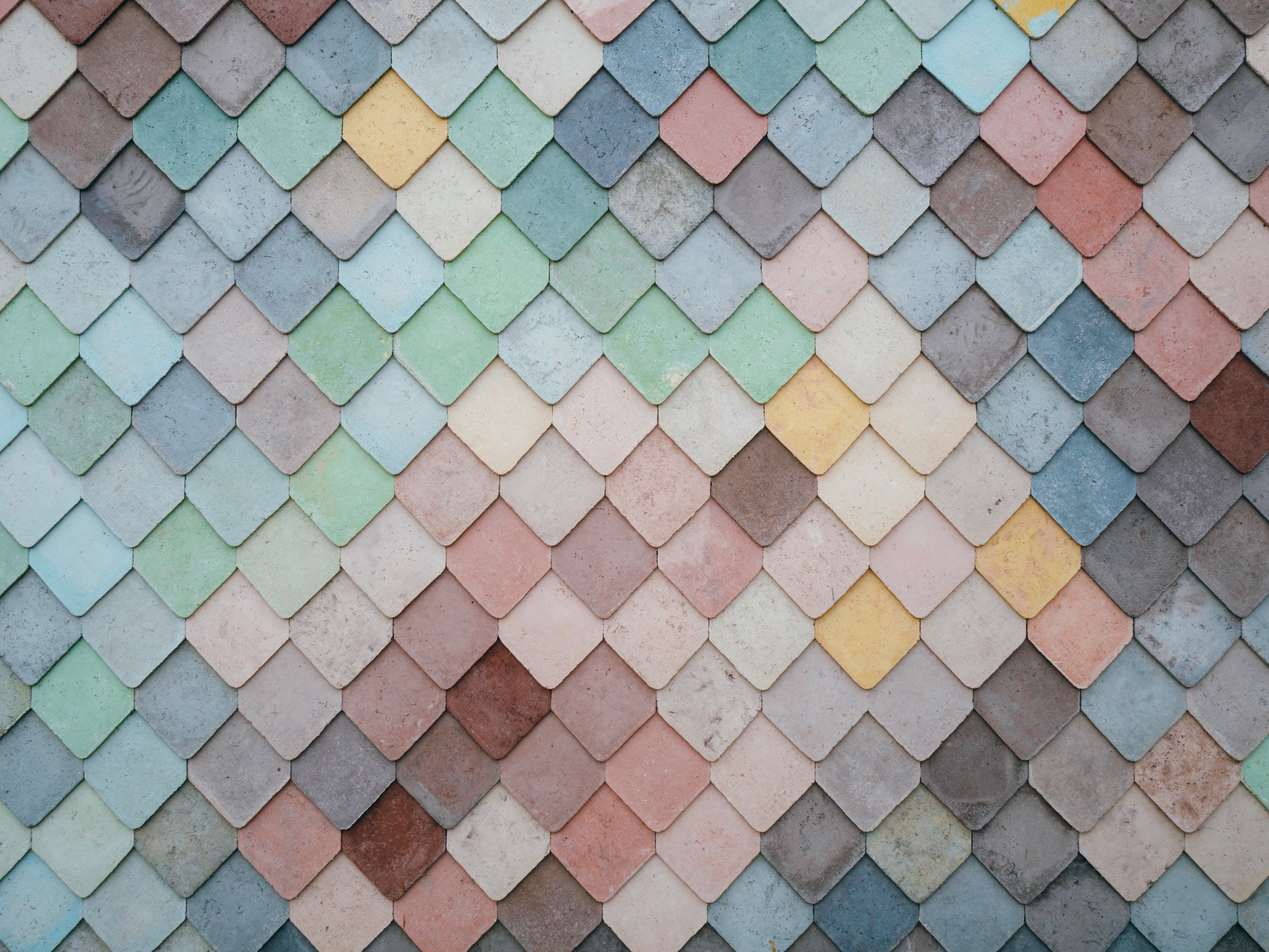
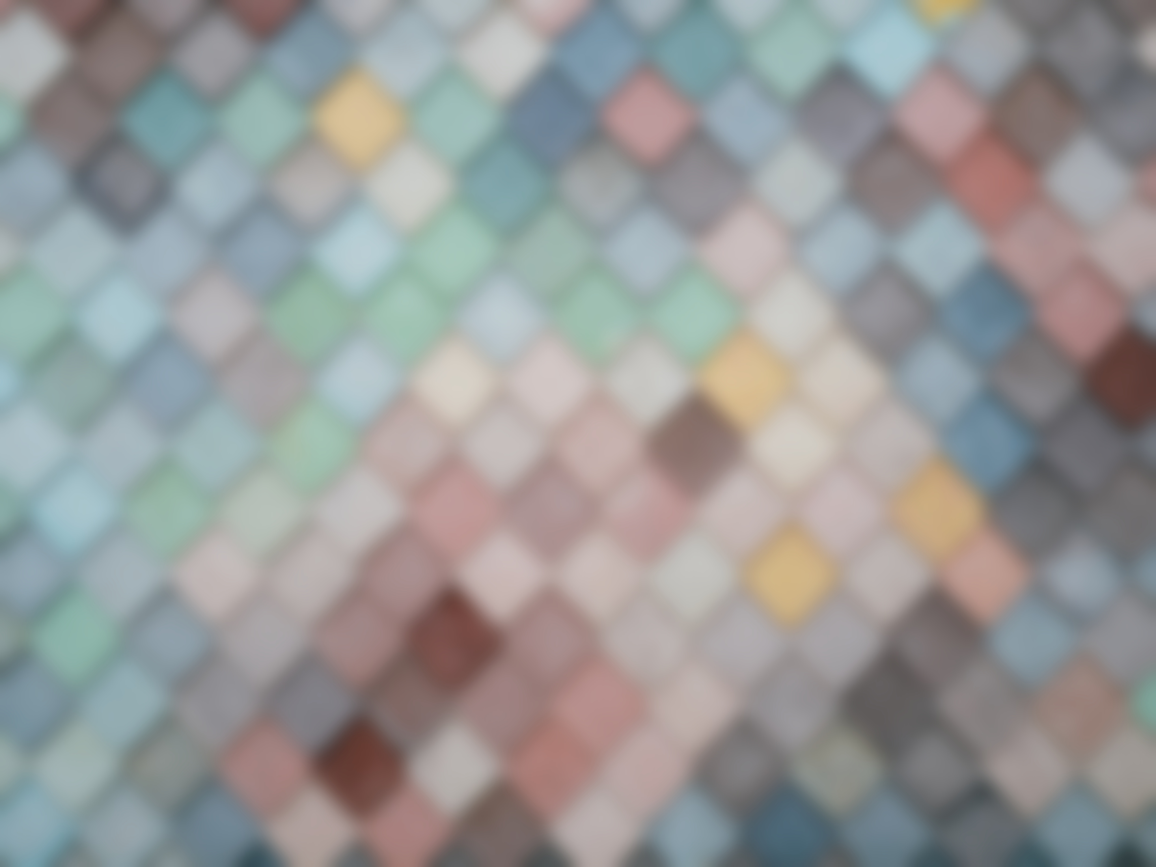
animations

diff --git a/src/styles.scss b/src/styles.scss
@@ -526,6 +526,8 @@ a:hover { color: #1b5e20;text-decoration:none }
   background-image: url("./assets/background.jpg");
   background-repeat: no-repeat;
   background-size: cover;
+  backdrop-filter: blur(2px);
+
 }
 
 .overlay-hashad{
@@ -538,7 +540,142 @@ a:hover { color: #1b5e20;text-decoration:none }
   background-color: rgba(0,0,0,0.5); /*dim the background*/
 }
 
+.wobble-ver-left {
+	-webkit-animation: wobble-ver-left 0.8s both;
+	        animation: wobble-ver-left 0.8s both;
+}
 
+.swing-in-top-fwd {
+	-webkit-animation: swing-in-top-fwd 0.5s cubic-bezier(0.175, 0.885, 0.320, 1.275) both;
+	        animation: swing-in-top-fwd 0.5s cubic-bezier(0.175, 0.885, 0.320, 1.275) both;
+}
+
+/* ----------------------------------------------
+ * Generated by Animista on 2019-12-17 18:44:2
+ * Licensed under FreeBSD License.
+ * See http://animista.net/license for more info. 
+ * w: http://animista.net, t: @cssanimista
+ * ---------------------------------------------- */
+
+/**
+ * ----------------------------------------
+ * animation swing-in-top-fwd
+ * ----------------------------------------
+ */
+ @-webkit-keyframes swing-in-top-fwd {
+  0% {
+    -webkit-transform: rotateX(-100deg);
+            transform: rotateX(-100deg);
+    -webkit-transform-origin: top;
+            transform-origin: top;
+    opacity: 0;
+  }
+  100% {
+    -webkit-transform: rotateX(0deg);
+            transform: rotateX(0deg);
+    -webkit-transform-origin: top;
+            transform-origin: top;
+    opacity: 1;
+  }
+}
+@keyframes swing-in-top-fwd {
+  0% {
+    -webkit-transform: rotateX(-100deg);
+            transform: rotateX(-100deg);
+    -webkit-transform-origin: top;
+            transform-origin: top;
+    opacity: 0;
+  }
+  100% {
+    -webkit-transform: rotateX(0deg);
+            transform: rotateX(0deg);
+    -webkit-transform-origin: top;
+            transform-origin: top;
+    opacity: 1;
+  }
+}
+
+
+/* ----------------------------------------------
+ * Generated by Animista on 2019-12-17 18:32:51
+ * Licensed under FreeBSD License.
+ * See http://animista.net/license for more info. 
+ * w: http://animista.net, t: @cssanimista
+ * ---------------------------------------------- */
+
+/**
+ * ----------------------------------------
+ * animation wobble-ver-left
+ * ----------------------------------------
+ */
+ @-webkit-keyframes wobble-ver-left {
+  0%,
+  100% {
+    -webkit-transform: translateY(0) rotate(0);
+            transform: translateY(0) rotate(0);
+    -webkit-transform-origin: 50% 50%;
+            transform-origin: 50% 50%;
+  }
+  15% {
+    -webkit-transform: translateY(-30px) rotate(-6deg);
+            transform: translateY(-30px) rotate(-6deg);
+  }
+  30% {
+    -webkit-transform: translateY(15px) rotate(6deg);
+            transform: translateY(15px) rotate(6deg);
+  }
+  45% {
+    -webkit-transform: translateY(-15px) rotate(-3.6deg);
+            transform: translateY(-15px) rotate(-3.6deg);
+  }
+  60% {
+    -webkit-transform: translateY(9px) rotate(2.4deg);
+            transform: translateY(9px) rotate(2.4deg);
+  }
+  75% {
+    -webkit-transform: translateY(-6px) rotate(-1.2deg);
+            transform: translateY(-6px) rotate(-1.2deg);
+  }
+}
+@keyframes wobble-ver-left {
+  0%,
+  100% {
+    -webkit-transform: translateY(0) rotate(0);
+            transform: translateY(0) rotate(0);
+    -webkit-transform-origin: 50% 50%;
+            transform-origin: 50% 50%;
+  }
+  15% {
+    -webkit-transform: translateY(-30px) rotate(-6deg);
+            transform: translateY(-30px) rotate(-6deg);
+  }
+  30% {
+    -webkit-transform: translateY(15px) rotate(6deg);
+            transform: translateY(15px) rotate(6deg);
+  }
+  45% {
+    -webkit-transform: translateY(-15px) rotate(-3.6deg);
+            transform: translateY(-15px) rotate(-3.6deg);
+  }
+  60% {
+    -webkit-transform: translateY(9px) rotate(2.4deg);
+            transform: translateY(9px) rotate(2.4deg);
+  }
+  75% {
+    -webkit-transform: translateY(-6px) rotate(-1.2deg);
+            transform: translateY(-6px) rotate(-1.2deg);
+  }
+}
+
+
+.slide-top {
+	-webkit-animation: slide-top 0.5s cubic-bezier(0.250, 0.460, 0.450, 0.940) both;
+	        animation: slide-top 0.5s cubic-bezier(0.250, 0.460, 0.450, 0.940) both;
+}
+.text-pop-up-top {
+	-webkit-animation: text-pop-up-top 0.5s cubic-bezier(0.250, 0.460, 0.450, 0.940) both;
+	        animation: text-pop-up-top 0.5s cubic-bezier(0.250, 0.460, 0.450, 0.940) both;
+}
 
 //@import 'tim.css';
 //@import 'quill.css';

diff --git a/src/app/features/home/components/welcome/welcome.component.html b/src/app/features/home/components/welcome/welcome.component.html
@@ -1,19 +1,25 @@
 <div class="container" fxLayout fxLayout.xs="column" fxLayoutAlign="center" fxLayoutGap="10px" fxLayoutGap.xs="0">
 	<div class="item item-2" fxFlex>
-<ngb-carousel *ngIf="settings.slider_images?.length > 0" [showNavigationArrows]="showNavigationArrows" [showNavigationIndicators]="showNavigationIndicators">
+<!-- <ngb-carousel *ngIf="settings.slider_images?.length > 0" [showNavigationArrows]="showNavigationArrows" [showNavigationIndicators]="showNavigationIndicators">
  <div *ngFor="let image of settings.slider_images">
   <ng-template  ngbSlide *ngIf="image != ''"  >
     <div class="picsum-img-wrapper" > 
-      <img  class="img-fluid "   [src]="image" alt="Random slide">
+      <img  class="img-fluid slide-top "   [src]="image" alt="Random slide">
     </div>
     <div class="carousel-caption">
       <!-- <h3 style="color:white">{{settings.home_page_title}}</h3>
       <p style="color:white">{{settings.home_page_description}}</p> -->
       <!-- <button mat-raised-button  type="button" color="accent">Post AD</button> -->
-    </div>
+    <!--</div>
   </ng-template>
 </div>
-</ngb-carousel>
+</ngb-carousel> -->
+<div class="jumbotron jumbotron-fluid">
+  <div class="container">
+    <h1 class="display-4">Fluid jumbotron</h1>
+    <p class="lead">This is a modified jumbotron that occupies the entire horizontal space of its parent.</p>
+  </div>
+</div>
 </div>
 </div>
 <mat-toolbar>Steps to Post Ad</mat-toolbar>
@@ -26,7 +32,7 @@
       text-align: center;" class="img-container-inline" aria-hidden="false" aria-label="Example user verified icon">{{msg.icon}}</mat-icon>
       </mat-toolbar-row>
       </mat-toolbar>
-  <p class="text-justify m-2">
+  <p class="text-justify m-2 ">
   {{msg.text}}
   </p>
 

diff --git a/src/app/shared/default-layout/default-layout.component.html b/src/app/shared/default-layout/default-layout.component.html
@@ -23,8 +23,8 @@
 			</svg>
 		</a>
 		<div style="margin-left:auto;" >
-		<button *ngIf="!mobileQuery.matches && !loginStatus()" mat-flat-button class="ml-2" color="accent"  [routerLink]="['/auth/signup']">Create New Account</button> 
-		<button *ngIf="!mobileQuery.matches" mat-flat-button class="ml-2" color="accent" [routerLink]="['/ad/post']">    <mat-icon>edit</mat-icon>
+		<button *ngIf="!mobileQuery.matches && !loginStatus()" mat-flat-button class="ml-2 " color="accent"  [routerLink]="['/auth/signup']">Create New Account</button> 
+		<button *ngIf="!mobileQuery.matches"  mat-flat-button class="ml-2 wobble-ver-left" color="accent" [routerLink]="['/ad/post']">    <mat-icon>edit</mat-icon>
 			Post AD</button>
 		<button [routerLink]="['/auth/signup']" class="mr-2" *ngIf="mobileQuery.matches && !loginStatus()" mat-mini-fab aria-label="Example icon-button with a heart icon">
 				<mat-icon>account_box</mat-icon>

diff --git a/src/app/features/ad/components/ad-list/ad-list.component.html b/src/app/features/ad/components/ad-list/ad-list.component.html
@@ -114,7 +114,7 @@
     fxLayoutGap.xs="0">
     <mat-card class="mt-1" *ngFor="let ad of adList" fxFlex="0 1 calc(33.3% - 10px)" fxFlex.lt-md="0 1 calc(50% - 32px)"
       fxFlex.lt-sm="100%">
-      <img *ngIf="ad.ad_image_1" mat-card-image [src]="ad.ad_image_1" alt="" (click)="viewAd(ad.id)">
+      <img class="swing-in-top-fwd" *ngIf="ad.ad_image_1" mat-card-image [src]="ad.ad_image_1" alt="" (click)="viewAd(ad.id)">
       <mat-card-content>
         <p [innerHtml]="ad.show_text"></p>
       </mat-card-content>
